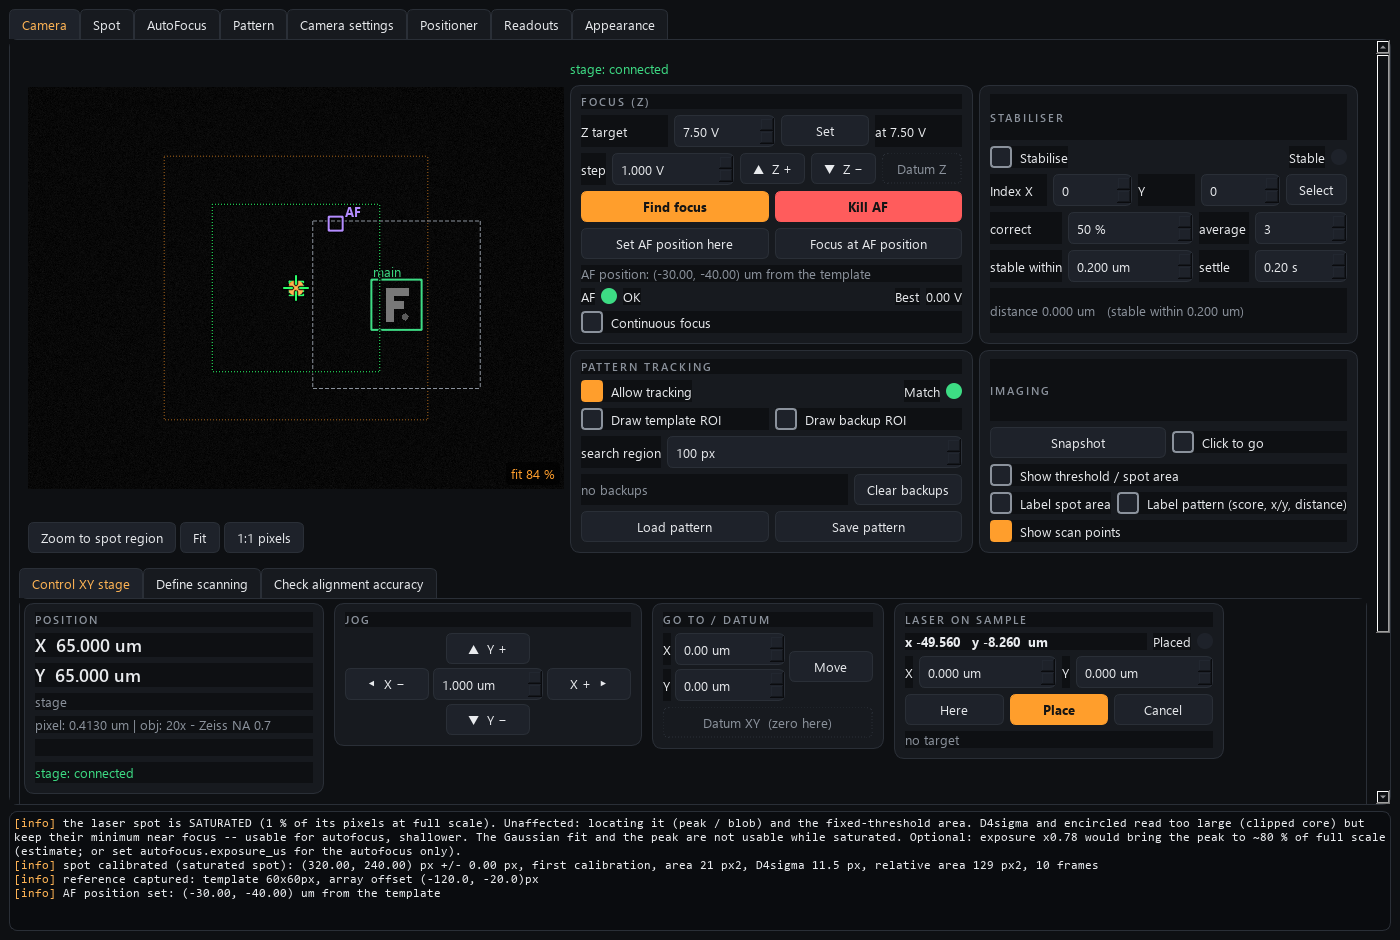
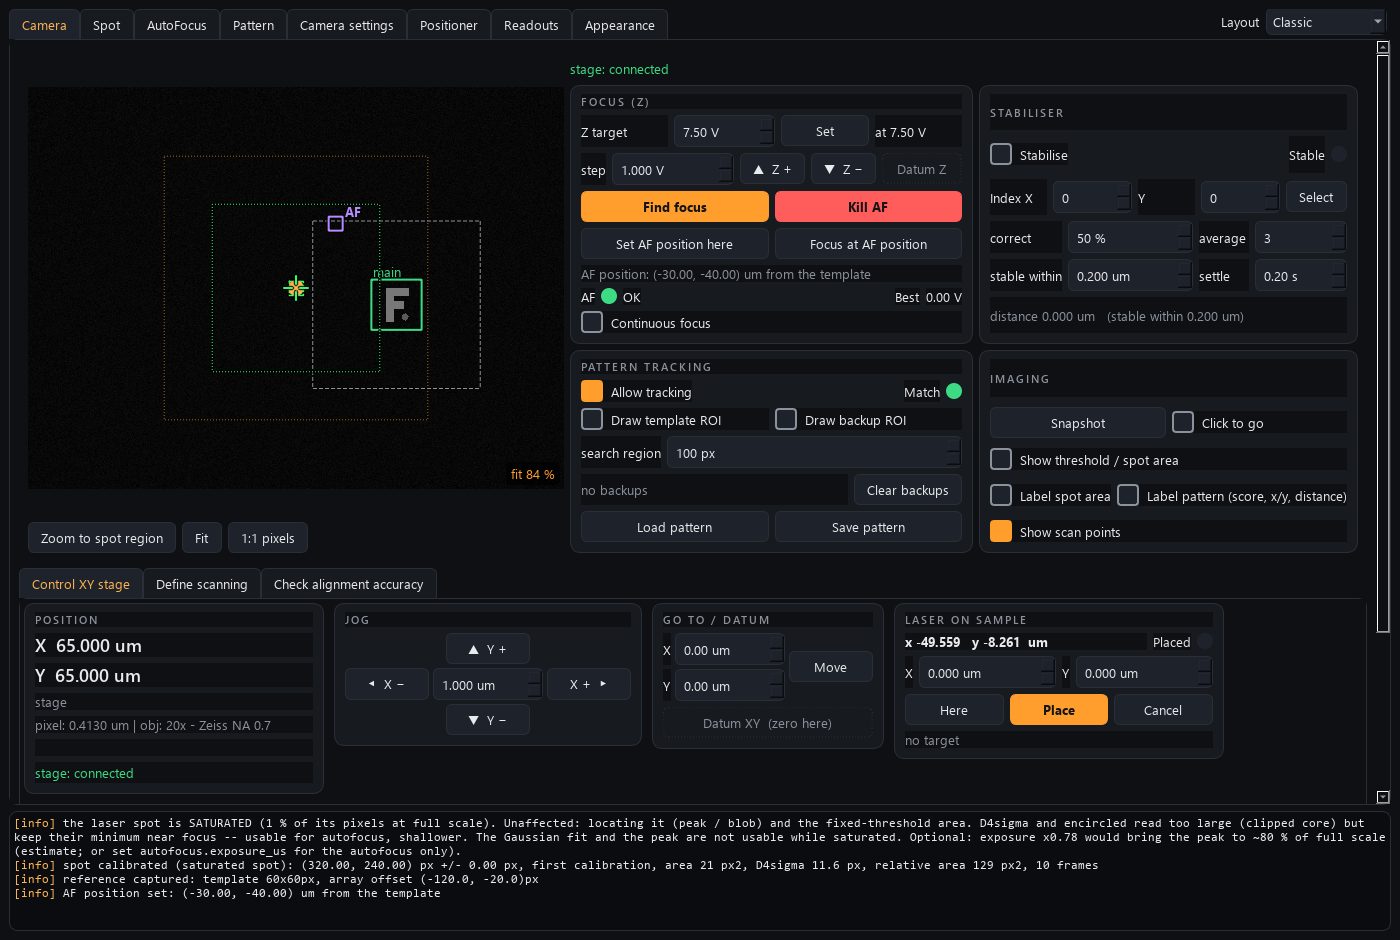
camera: render + document the Camera-tab layouts
The render targets now really switch the layout in their warm-up (the first
edit had not landed), Workflow posed on step 4 with the stabiliser on.
front-panels: camera, camera-cockpit, -workflow, -hud, -split in both themes.
README: a "Layouts of the Camera tab" section with the four new screenshots.

diff --git a/tools/render_panels.py b/tools/render_panels.py
@@ -295,6 +295,14 @@ def _camera(theme, tab: str | None = None, layout: str | None = None):
         fn = getattr(c, "set_tracking", None)
         if fn:
             fn(True)
+        if layout:
+            # one of the Camera tab's layouts (2026-10-13), switched live as
+            # the Layout box does
+            win.set_layout(layout, persist=False)
+            if layout == "workflow":
+                # step 4 (Lock): its light and controls are the interesting ones
+                c.set_stabilize(True)
+                win.layouts.stepper.stack.setCurrentIndex(3)
         if tab:
             # one tab by NAME (a settings tab: "Camera settings" holds the
             # Images for scans box, 2026-10-10)

diff --git a/modules/imaging/camera-control/src/camera/apps/gui.py b/modules/imaging/camera-control/src/camera/apps/gui.py
@@ -6,7 +6,8 @@
 
 Layout mirrors the LabVIEW front panel's tabs:
   * Camera        -- the live view + the primary live controls + bottom sub-tabs
-                     (Control XY stage / Define scanning).
+                     (Control XY stage / Define scanning), in one of five
+                     switchable LAYOUTS (layouts.py; the Layout box, ui.layout).
   * Spot          -- threshold the laser spot on a grabbed frame and CALIBRATE
                      its position (the one click-to-go and the stabiliser use).
   * AutoFocus     -- focus settings.

diff --git a/modules/imaging/camera-control/README.md b/modules/imaging/camera-control/README.md
@@ -103,6 +103,63 @@ under them says who drives it and where, e.g.
 marks the point being moved to and small pink dots the points already visited.
 Both zoom and these marks are display only, so they work in a viewer window.
 
+## Layouts of the Camera tab (2026-10-13)
+
+The Camera tab can arrange its controls in five ways. Pick one in the
+**Layout** box at the top right of the window (or on the Appearance tab); it
+switches at once, without a restart. Every layout holds the SAME controls --
+a switch moves the existing widgets into other containers, so a button does
+exactly what it did, a viewer window greys the same things, and nothing has a
+second copy that could disagree. The choice is the setting `ui.layout`
+(classic, cockpit, workflow, hud, split): it travels with the camera's config
+and **Save config** keeps it for the next start. A viewer window can switch
+too; it then changes in that window only. The window's log stays under every
+tab in every layout.
+
+- **Classic** (the default) -- the arrangement shown at the top of this page.
+- **Cockpit** -- the image in the middle; on the left a Focus (Z) column
+  (Z+ / where Z is / Z-, step, target, Datum Z, Find focus / Kill AF, the AF
+  state, the AF position, continuous focus); on the right the tabs **Lock**
+  (pattern tracking and the stabiliser on one page: tracking needs nothing,
+  stabilising needs tracking) and **Laser**, then the XY stage (jog pad,
+  position, go to / datum). A status line over the image: match, stable,
+  autofocus, Z, XY. Imaging and the scan pages below; drag the line between
+  them to give the image more room.
+
+  ![Cockpit layout](../../../front-panels/camera-cockpit.png)
+
+- **Workflow steps** -- a stepper on the left: 1 Focus, 2 Spot, 3 Pattern,
+  4 Lock, 5 Place / scan. Each step has a light from the live status (green
+  done, amber running, red failed, grey not yet) and a one-line state, and only
+  the chosen step's controls are shown under it. Step 2 says what the spot
+  calibration is and opens the Spot tab, where it is done (on a grabbed
+  frame). The jog pad, Z +/- and Kill AF stay on the right whatever the step.
+
+  ![Workflow layout](../../../front-panels/camera-workflow.png)
+
+- **Heads-up** -- the image fills the tab, with small translucent panels on it:
+  the status (top left), zoom / Snapshot / Overlays (top right; Overlays opens
+  the drawing switches), a Z rocker with Find focus and Kill AF (right), the
+  jog pad (bottom right) and Allow tracking / Stabilise / Click to go (bottom
+  left). A panel takes only the clicks on itself: click to go, the template ROI
+  and the scan rectangle work everywhere else on the image. The rest is in the
+  slim tab bar under it (Lock, Focus / AF, Stage, Laser, Scan, Alignment).
+
+  ![Heads-up layout](../../../front-panels/camera-hud.png)
+
+- **Split by axis** -- everything Z on the left (focus, autofocus, AF
+  position), the image in the middle, everything XY on the right (position,
+  go to / datum, jog, then the tabs Track | Stabilise | Laser), imaging and the
+  scan pages below.
+
+  ![Split-by-axis layout](../../../front-panels/camera-split.png)
+
+The side columns scroll on a short screen (1366 x 768) instead of cutting
+anything off. For developers: `apps/layouts.py` (one builder per layout,
+`PIECES` = the controls a layout places), tests in `tests/test_layouts.py`,
+renders `python tools/render_all.py camera-cockpit camera-workflow camera-hud
+camera-split`.
+
 ## External control (from another program / coordinator)
 
 Every action is a ZeroMQ command (see `scripts/camera_console.py` for the verbs):
